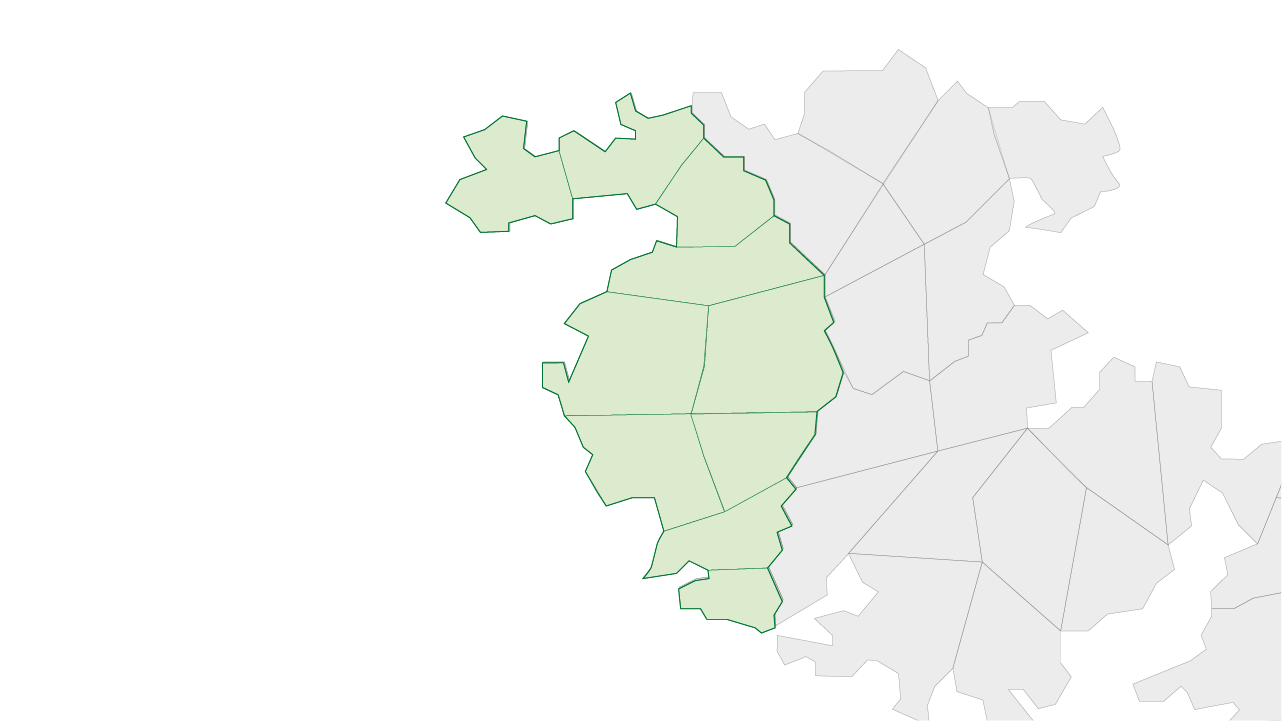
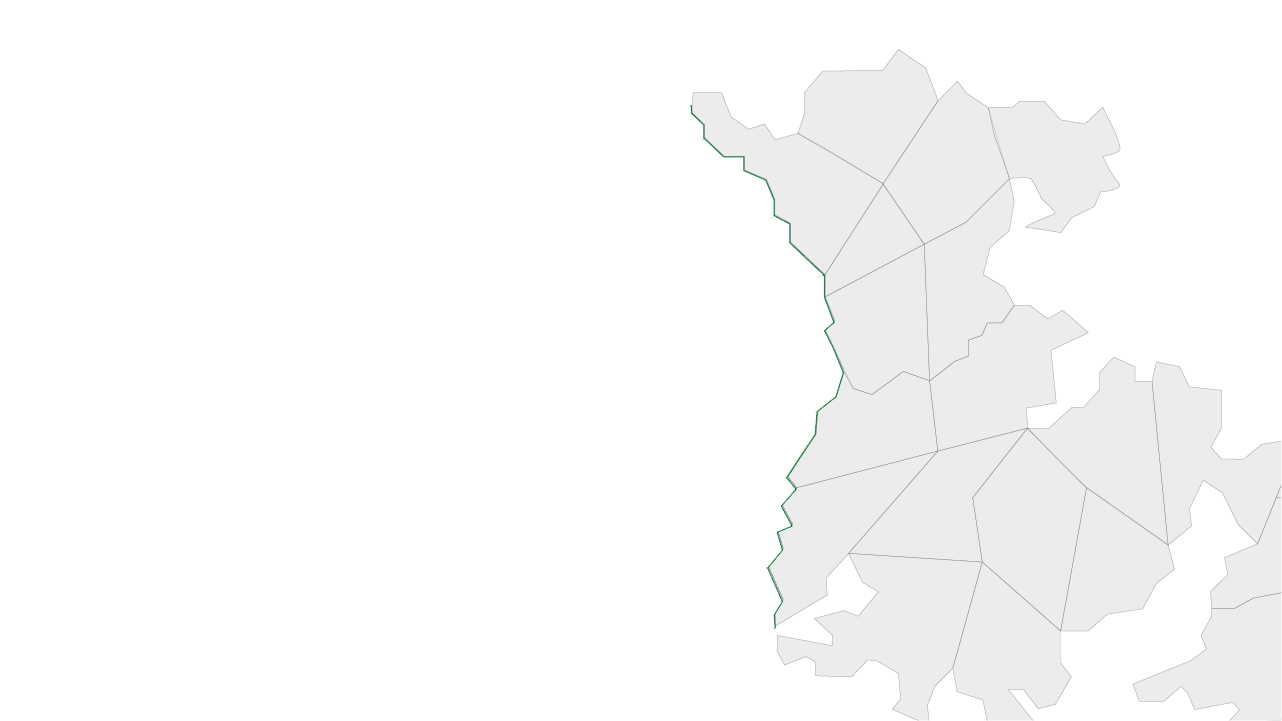
GameScene map revisited

Changed region(s): [[0.3432, 0.1221, 0.6552, 0.8849]]

diff --git a/Scenes/GameScene.js b/Scenes/GameScene.js
@@ -1,17 +1,9 @@
 ///////////////////////////////////////////////// VARIABLES /////////////////////////////////////////////////
-//var game;
-var player1;
-var player2;
-
-var nodeList;
-
-var player1Controller;
-var player2Controller;
+let nodeList;
 
 const PLAYER_STARTING_SOLDIERS = 10;
 const PLAYER_RANGE = 200;
 const PLAYER_DRAFTING_RANGE = 30;
-const PLAYER_MOVEMENT_SPEED = 200;
 const SOLDIER_DISPLAY_VERTICAL_ANCHOR = -20
 
 const SOLDIER_OBJECT_SPEED = 100;
@@ -23,13 +15,13 @@ const NODE_MAXIMUN_SOLDIER_CAPACITY = 30;
 
 const DRAFTING_COOLDOWN = 500; // Milliseconds
 
-const Faction = {
+const FACTION = {
     Neutral: "Neutral",
     One: "One",
     Two: "Two"
 }
 
-const Movement = {
+const MOVEMENT = {
     None: "None",
     StopVertial: "Stopvertical",
     StopHorizontal: "StopHorizotal",
@@ -44,6 +36,7 @@ class SceneObject {
     // This class uses a global variable 'game' which is a Phaser object that needs to be initialize in the 'create' method !!!!!
     constructor(xPos, yPos, sprite) {
         this.phaserGO = game.physics.add.sprite(xPos, yPos, sprite); // Phaser Game Object.
+        this.phaserGO.setScale(1.4);
         if (this.phaserGO.body) {
             this.phaserGO.setCollideWorldBounds(true);
             this.phaserGO.body.allowGravity = false;
@@ -103,26 +96,26 @@ class Player extends SceneObject {
     // Movement:
     move(movement){
         switch(movement){
-            case Movement.Up:
-                this.phaserGO.setVelocityY(-PLAYER_MOVEMENT_SPEED);
+            case MOVEMENT.Up:
+                this.phaserGO.setVelocityY(-PLAYER_SPEED);
                 break;
-            case Movement.Down:
-                this.phaserGO.setVelocityY(PLAYER_MOVEMENT_SPEED);
+            case MOVEMENT.Down:
+                this.phaserGO.setVelocityY(PLAYER_SPEED);
                 break;
-            case Movement.Right:
-                this.phaserGO.setVelocityX(PLAYER_MOVEMENT_SPEED);
+            case MOVEMENT.Right:
+                this.phaserGO.setVelocityX(PLAYER_SPEED);
                 break;
-            case Movement.Left:
-                this.phaserGO.setVelocityX(-PLAYER_MOVEMENT_SPEED);
+            case MOVEMENT.Left:
+                this.phaserGO.setVelocityX(-PLAYER_SPEED);
                 break;
-            case Movement.None:
+            case MOVEMENT.None:
                 this.phaserGO.setVelocityX(0);
                 this.phaserGO.setVelocityY(0);
                 break;
-            case Movement.StopHorizontal:
+            case MOVEMENT.StopHorizontal:
                 this.phaserGO.setVelocityX(0);
                 break;
-            case Movement.StopVertial:
+            case MOVEMENT.StopVertial:
                 this.phaserGO.setVelocityY(0);
                 break;
             default:
@@ -263,7 +256,7 @@ class Node extends SceneObject {
         this.soldiers = NODE_STARTING_SOLDIERS;
         this.soldiersDisplay = game.add.text(xPos - 7, yPos + 30, '0', { fontFamily: 'Georgia, "Goudy Bookletter 1911", Times, serif' });
         this.updateSoldiersDisplay();
-        this.faction = Faction.Neutral;
+        this.faction = FACTION.Neutral;
         this.soldiersGenerationTimer;
 
 
@@ -293,7 +286,7 @@ class Node extends SceneObject {
         const bigRadius = 20;
 
         switch (faction) {
-            case Faction.One: //player1 select a node
+            case FACTION.One: //player1 select a node
                 if(this.smallRadius2){ // if the player2 has already selected a node (smallRadius2) --> player1 bigRadius1
                     this.drawCircumference(this.circumferencePlayer1, 0xFFA500, bigRadius);
                     this.bigRadius1 = true;
@@ -303,7 +296,7 @@ class Node extends SceneObject {
                 }
             break;
             
-            case Faction.Two: //player2 select a node
+            case FACTION.Two: //player2 select a node
                 if(this.smallRadius1){ // if the player1 has already selected a node (smallRadius1) --> player2 bigRadius2
                     this.drawCircumference(this.circumferencePlayer2, 0x800080, bigRadius);
                     this.bigRadius2 = true;
@@ -320,7 +313,7 @@ class Node extends SceneObject {
         const smallRadius = 15;
 
         switch (faction) {
-            case Faction.One: // player1 unselect a node
+            case FACTION.One: // player1 unselect a node
                 if(this.bigRadius2){ // if the player2 still selecting it (bigRadius2) --> player1 clear all --> draw player2 smallRadius2 
                     this.circumferencePlayer1.clear();
                     this.smallRadius1=false;
@@ -337,7 +330,7 @@ class Node extends SceneObject {
                     this.bigRadius1=false;
                 }
            break;
-            case Faction.Two:// player2 unselect a node
+            case FACTION.Two:// player2 unselect a node
                 if(this.bigRadius1){ // if the player1 still selecting it (bigRadius1) --> player2 clear all --> draw player1 smallRadius1 
                     this.circumferencePlayer2.clear();
                     this.smallRadius2=false;
@@ -387,7 +380,7 @@ class Node extends SceneObject {
         if(this.soldiers > 0){
             this.addSoldiers(-1);
             if(this.soldiers == 0){ // Turn neutral if soldiers reach 0.
-                this.changeFaction(Faction.Neutral);
+                this.changeFaction(FACTION.Neutral);
             }
 
         }else{
@@ -408,15 +401,15 @@ class Node extends SceneObject {
 
     changeFaction(faction){
         switch(faction){
-            case Faction.Neutral:
+            case FACTION.Neutral:
                 this.region.phaserGO.clearTint(); // Clear tint
                 this.stopSoldierGeneratio()
                 break;
-            case Faction.One:
+            case FACTION.One:
                 this.region.phaserGO.setTint(0xFFA500); // Orange tint for player 1
                 this.startSoldierGeneration();
                 break;
-            case Faction.Two:
+            case FACTION.Two:
                 this.region.phaserGO.setTint(0x800080); // Purple tint for player 2
                 this.startSoldierGeneration();
                 break;
@@ -446,10 +439,10 @@ class Soldier extends SceneObject{
     // Initialization.
     setUpTint(){
         switch(this.faction){
-            case Faction.One:
+            case FACTION.One:
 
                 break;
-            case Faction.Two:
+            case FACTION.Two:
 
                 break;
             default:
@@ -515,26 +508,28 @@ export default class GameScene extends Phaser.Scene {
         game = this; // Store "game" object for SceneObject class.
 
         // Map.
-        this.add.image(600, 300, 'map'); 
+        map = this.add.image(600+40, 300+100, 'map');
+        map.setScale(1.4);
+
 
         // Players.
-        player1 = new Player(100, 500, 'player1', Faction.One, 'player1');
-        player2 = new Player(200, 500, 'player2', Faction.Two, 'player2');
+        player1 = new Player(100, 500, 'player1', FACTION.One, 'player1');
+        player2 = new Player(200, 500, 'player2', FACTION.Two, 'player2');
 
         nodeList = [
-            new Node(469, 113, 'mapZone0'),
-            new Node(591, 90,  'mapZone1'),
-            new Node(674, 131, 'mapZone2'),
-            new Node(675, 199, 'mapZone3'),
-            new Node(585, 292, 'mapZone4'),
-            new Node(726, 283, 'mapZone5'),
-            new Node(602, 411, 'mapZone6'),
-            new Node(712, 401, 'mapZone7'),
-            new Node(678, 467, 'mapZone8'),
-            new Node(690, 539, 'mapZone9'),
+            new Node(456, 138, 'mapZone0'),
+            new Node(628, 108,  'mapZone1'),
+            new Node(744, 164, 'mapZone2'),
+            new Node(746, 260, 'mapZone3'),
+            new Node(618, 390, 'mapZone4'),
+            new Node(816, 377, 'mapZone5'),
+            new Node(643, 556, 'mapZone6'),
+            new Node(797, 542, 'mapZone7'),
+            new Node(751, 634, 'mapZone8'),
+            new Node(767, 735, 'mapZone9'),
         ]
 
-        player1Controller = this.input.keyboard.addKeys({
+        p1Ctrls = this.input.keyboard.addKeys({
             'up': Phaser.Input.Keyboard.KeyCodes.W,
             'down': Phaser.Input.Keyboard.KeyCodes.S,
             'left': Phaser.Input.Keyboard.KeyCodes.A,
@@ -542,7 +537,7 @@ export default class GameScene extends Phaser.Scene {
             'interact': Phaser.Input.Keyboard.KeyCodes.SPACE
         });
 
-        player2Controller = this.input.keyboard.addKeys({
+        p2Ctrls = this.input.keyboard.addKeys({
             'up': Phaser.Input.Keyboard.KeyCodes.UP,
             'down': Phaser.Input.Keyboard.KeyCodes.DOWN,
             'left': Phaser.Input.Keyboard.KeyCodes.LEFT,
@@ -561,46 +556,46 @@ export default class GameScene extends Phaser.Scene {
     playerControls() {
 
         // Movement Player 1 (wasd).
-        if (player1Controller.left.isDown) { // Horizontal movement.
-            player1.move(Movement.Left);
-        } else if (player1Controller.right.isDown) {
-            player1.move(Movement.Right);
+        if (p1Ctrls.left.isDown) { // Horizontal movement.
+            player1.move(MOVEMENT.Left);
+        } else if (p1Ctrls.right.isDown) {
+            player1.move(MOVEMENT.Right);
         } else {
-            player1.move(Movement.StopHorizontal);
+            player1.move(MOVEMENT.StopHorizontal);
         }
 
-        if (player1Controller.up.isDown) { // Vertical movement.
-            player1.move(Movement.Up);
-        } else if (player1Controller.down.isDown) {
-            player1.move(Movement.Down);
+        if (p1Ctrls.up.isDown) { // Vertical movement.
+            player1.move(MOVEMENT.Up);
+        } else if (p1Ctrls.down.isDown) {
+            player1.move(MOVEMENT.Down);
         } else {
-            player1.move(Movement.StopVertial);
+            player1.move(MOVEMENT.StopVertial);
         }
 
         // Interaction Player 1.
-        if(player1Controller.interact.isDown){
+        if(p1Ctrls.interact.isDown){
             player1.interact();
         }
 
         // Movement Player 2 (Arrows).
-        if (player2Controller.left.isDown) { // Horizontal movement.
-            player2.move(Movement.Left);
-        } else if (player2Controller.right.isDown) {
-            player2.move(Movement.Right);
+        if (p2Ctrls.left.isDown) { // Horizontal movement.
+            player2.move(MOVEMENT.Left);
+        } else if (p2Ctrls.right.isDown) {
+            player2.move(MOVEMENT.Right);
         } else {
-            player2.move(Movement.StopHorizontal);
+            player2.move(MOVEMENT.StopHorizontal);
         }
 
-        if (player2Controller.up.isDown) { // Vertical movement.
-            player2.move(Movement.Up);
-        } else if (player2Controller.down.isDown) {
-            player2.move(Movement.Down);
+        if (p2Ctrls.up.isDown) { // Vertical movement.
+            player2.move(MOVEMENT.Up);
+        } else if (p2Ctrls.down.isDown) {
+            player2.move(MOVEMENT.Down);
         } else {
-            player2.move(Movement.StopVertial);
+            player2.move(MOVEMENT.StopVertial);
         }
 
         //Interaction Player 2.
-        if(player2Controller.interact.isDown){
+        if(p2Ctrls.interact.isDown){
             player2.interact();
         }
     }

diff --git a/Scenes/StartScene.js b/Scenes/StartScene.js
@@ -13,18 +13,19 @@ export default class StartScene extends Phaser.Scene {
 
     create() {
     // IMAGES
-        const MAP = this.add.image(850, centerY, 'mapStart');
-        const TITLE = this.add.image(250, 150, 'title');
+        map = this.add.image(centerX, centerY, 'mapStart');
+        map.setScale(1.4);
+        const TITLE = this.add.image(centerX, 90, 'title');
 
     // BUTTONS
         // Start
-        this.startButton = this.add.image(250, 230, 'start_default').setInteractive();
+        this.startButton = this.add.image(400, centerY, 'start_default').setInteractive();
 
         //Settings
-        this.settingsButton = this.add.image(250, 310, 'settings_default').setInteractive();
+        this.settingsButton = this.add.image(gameConfig.width - 200, gameConfig.height - 200, 'settings_default').setInteractive();
 
         //Credits
-        this.creditsButton = this.add.image(250, 390, 'credits_default').setInteractive();
+        this.creditsButton = this.add.image(200, gameConfig.height - 200, 'credits_default').setInteractive();
 
         //Exit
         //this.exitButton = this.add.image(250, 470, 'exit_default').setInteractive();

diff --git a/Scenes/Bootloader.js b/Scenes/Bootloader.js
@@ -10,7 +10,7 @@ export default class Bootloader extends Phaser.Scene {
 
         //StartS startScene when everything is loaded
         this.load.on("complete", () => {
-            this.scene.start("StartScene");
+            this.scene.start("GameScene");
         })
 
         //Buttons

diff --git a/init.js b/init.js
@@ -15,8 +15,8 @@ import CreditsScene from "./Scenes/CreditsScene.js";
 gameConfig = {
     //Canvas settings
     type: Phaser.AUTO,
-    width: 1200,
-    height: 600,
+    width: 1280,
+    height: 960,
     parent: "display", //Hosting container
     backgroundColor: '#8FC9FF',
 

diff --git a/index.html b/index.html
@@ -22,6 +22,7 @@
         centerY, //Center of canvas in Y
 
         //Defined in every scene as needed
+        map,
         player1,
         p1Ctrls, //Player 1 controls
         p1Bounds, //Player 1 bounds
